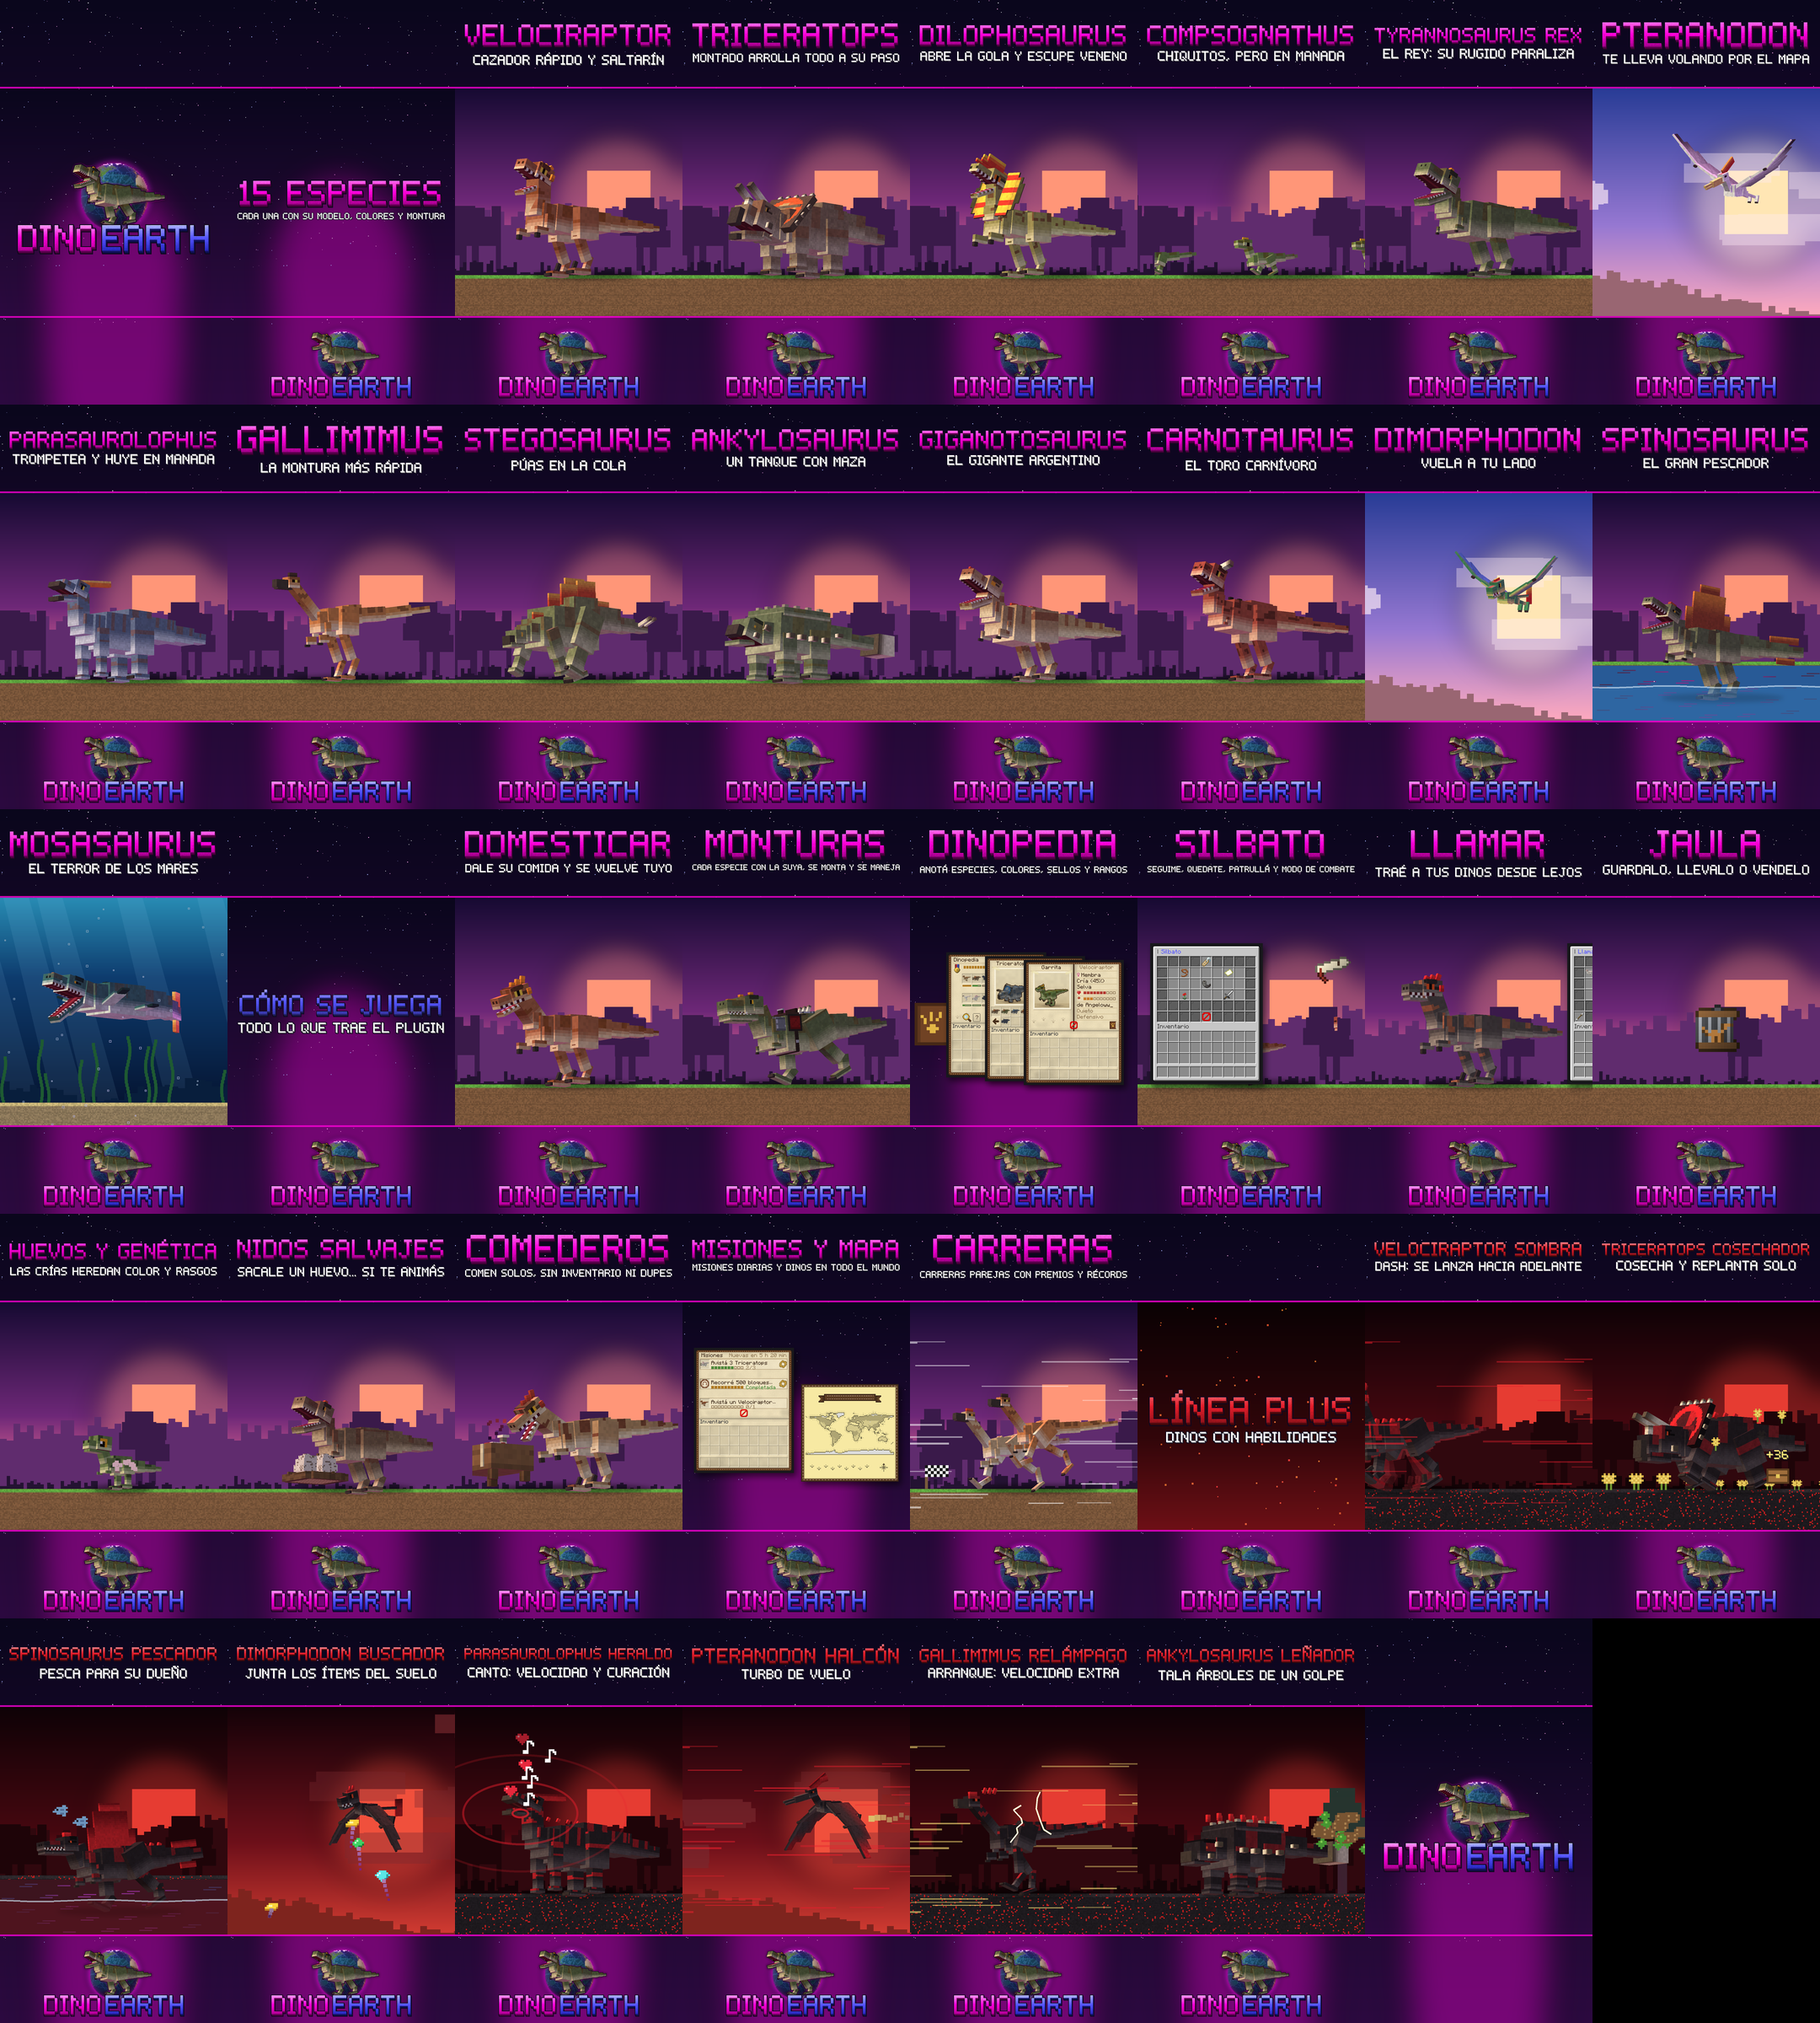
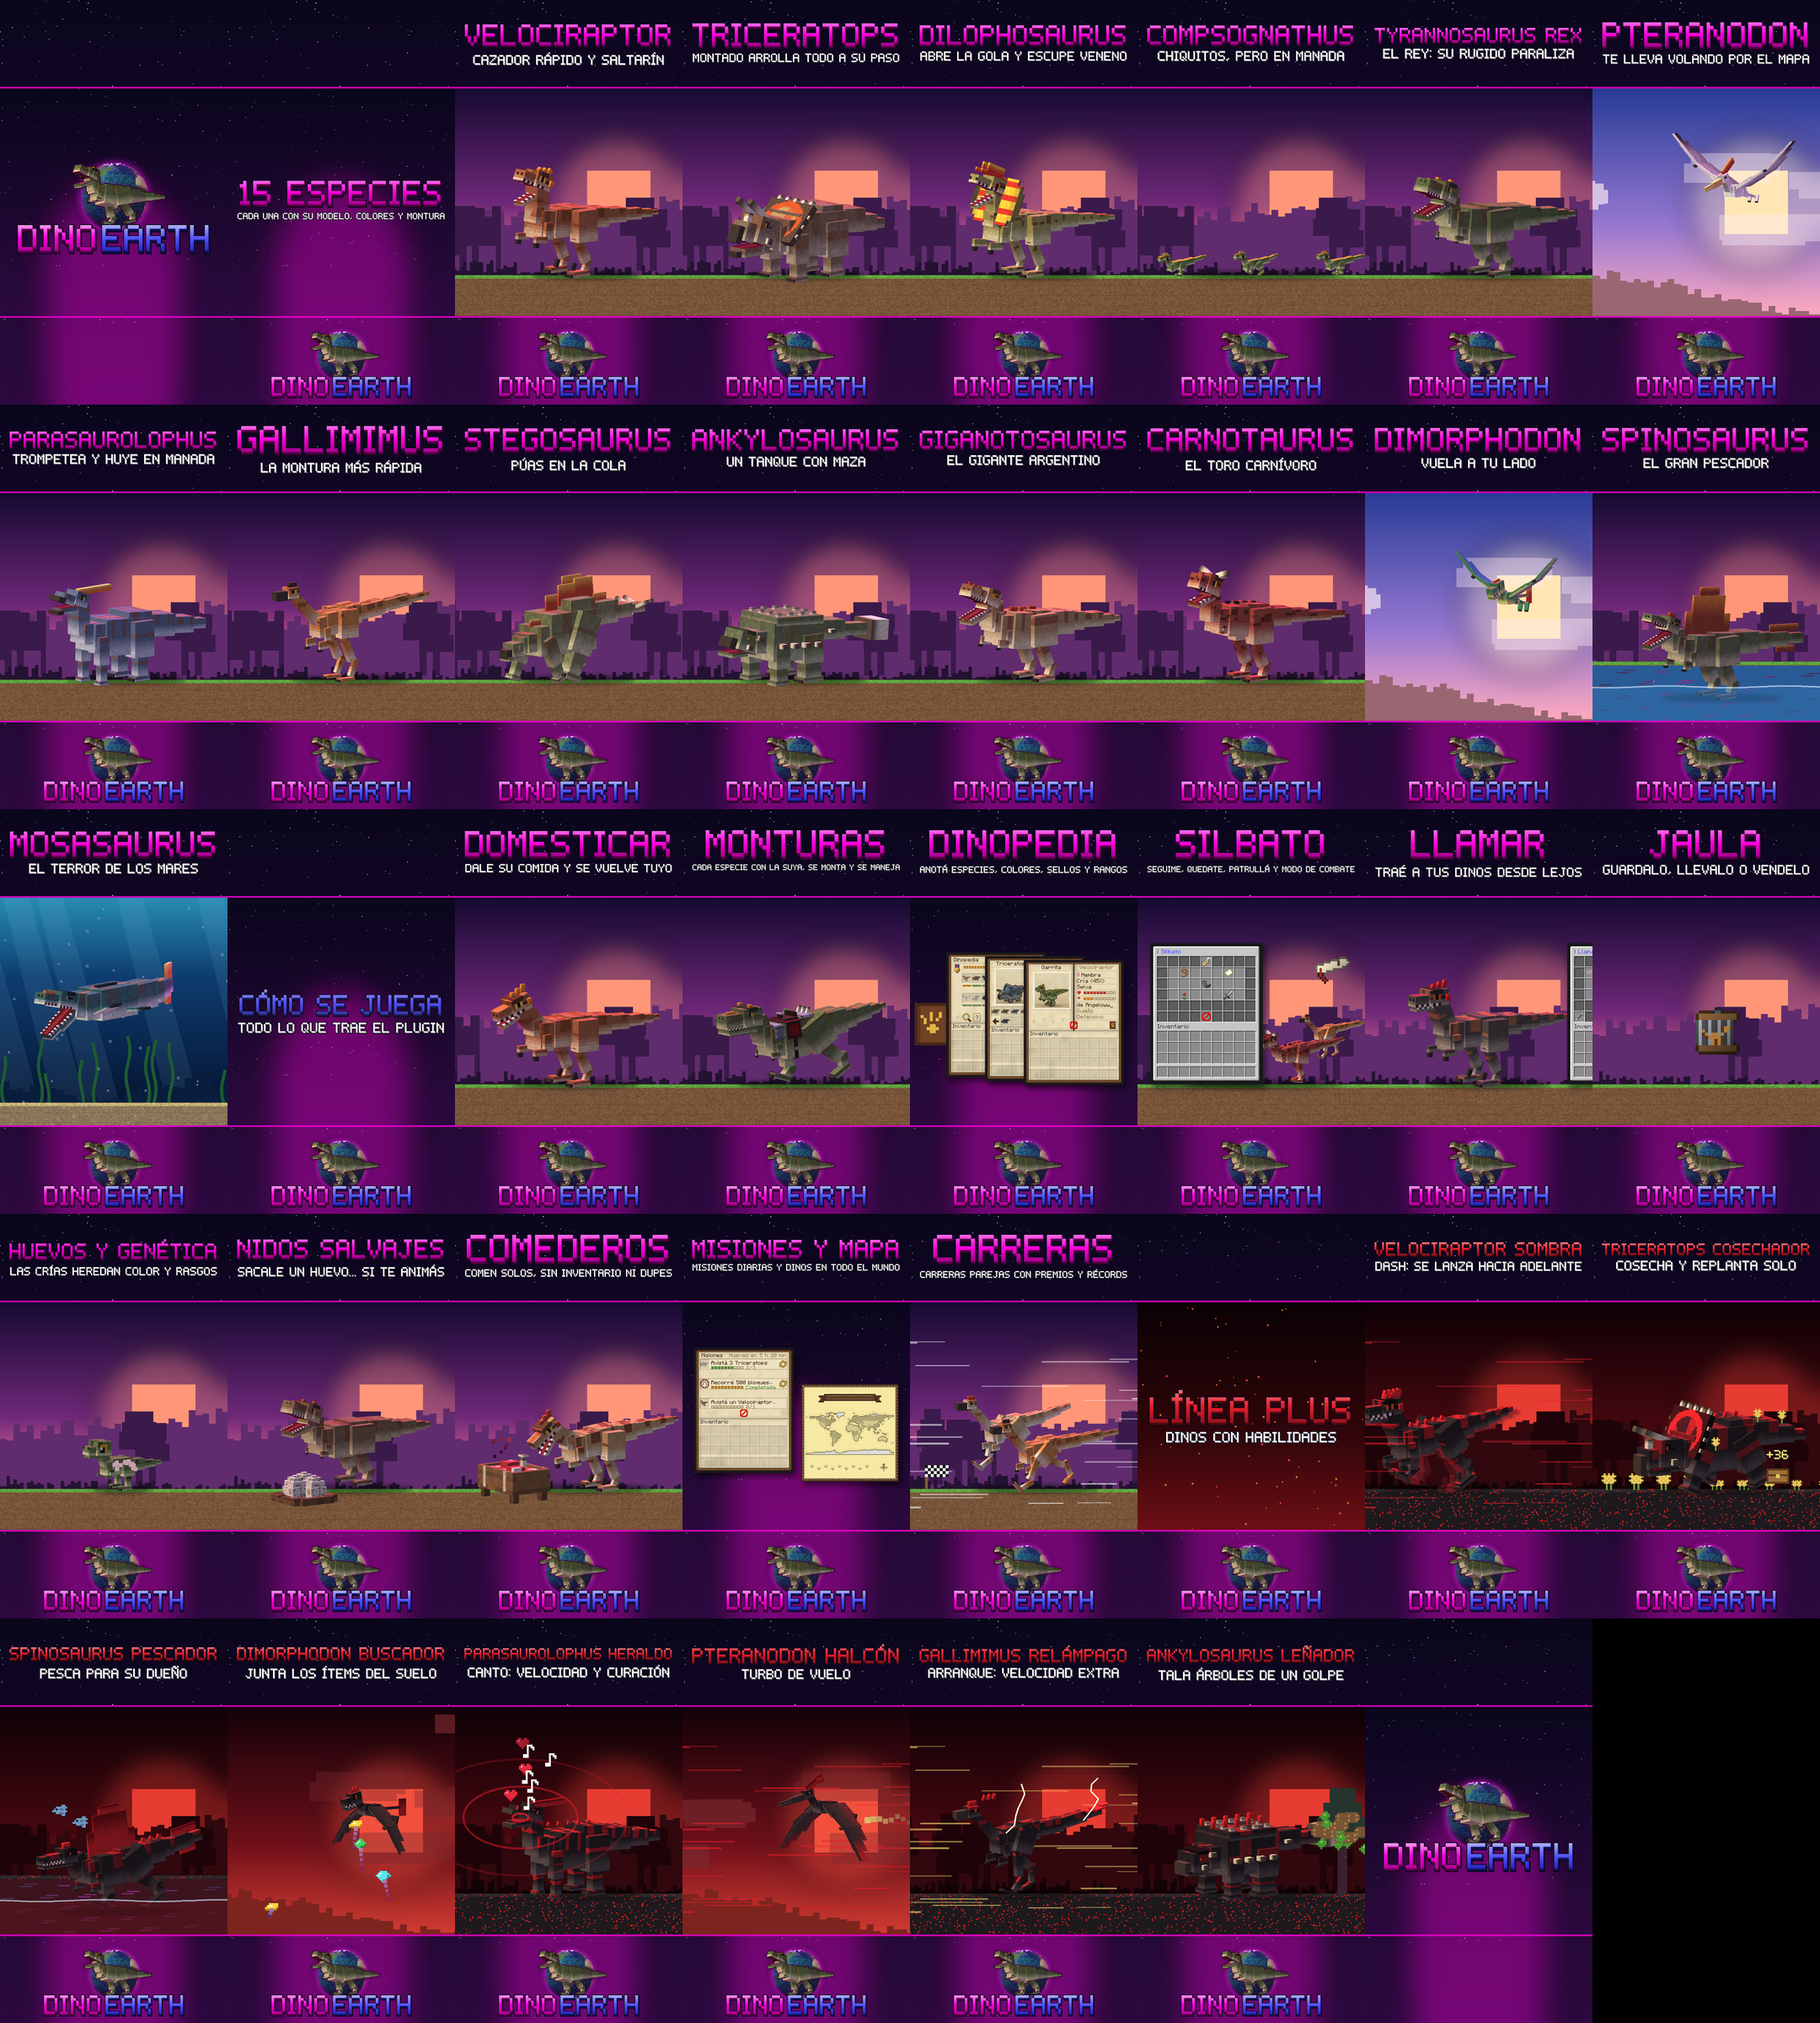
Trailer: camara un poco por arriba (no desde abajo) y encuadre automatico que mide cada escena para que nada se corte
Claude-Session: https://claude.ai/code/session_01FRzffRsnnW2LPvvNNanmUU

diff --git a/generator/video.py b/generator/video.py
@@ -550,17 +550,37 @@ class DinoScene(Scene):
         self.ppx = min(target / (self.length * 0.9 + 8), H * 0.54 / (self.height + 4))
         if kind == "swim":
             self.ppx = min(target / (self.length * 0.85), H * 0.5 / (self.height + 4))
-        self.canvas = (int(W * 0.95), int(H * 0.95))
-        self.origin_row = int(self.canvas[1] * (0.5 if kind in ("flyer", "swim") else 0.86))
         self.screen_origin = (W * (0.62 if kind == "flyer" else 0.55),
                               GROUND + (int(H * 0.08) if env == "river" else 0)
                               if kind not in ("flyer", "swim") else H * (0.6 if kind == "flyer" else 0.55))
+        self.fit()
+
+    def fit(self):
+        """Encuadre: lienzo grande (nada se corta al renderizar), y se mide la silueta en varios momentos de la
+        escena; si en algun momento no entra en el cuadro (por ancho o por alto, debajo de los titulos), se achica.
+        Despues se centra a lo ancho."""
+        cw, ch = int(W * 1.8), int(H * 1.5)
+        self.canvas = (cw, ch)
+        self.origin_row = int(ch * (0.5 if self.kind in ("flyer", "swim") else 0.8))
         self.xfix = 0
-        img = self.layer(0.0)
-        bb = img.getbbox()
-        if bb:
-            center = (bb[0] + bb[2]) / 2
-            self.xfix = self.canvas[0] / 2 - center
+        box = None
+        for f in (0.0, 0.2, 0.4, 0.55, 0.7, 0.85, 0.97):
+            bb = self.layer(self.dur * f).getbbox()
+            if bb:
+                box = bb if box is None else (min(box[0], bb[0]), min(box[1], bb[1]), max(box[2], bb[2]),
+                                              max(box[3], bb[3]))
+        if not box:
+            return
+        cx0, cy0 = cw / 2, self.origin_row
+        k_w = W * 0.94 / max(1, box[2] - box[0])
+        if self.kind in ("flyer", "swim"):
+            k_h = H * 0.6 / max(1, box[3] - box[1])
+        else:
+            room = self.screen_origin[1] - H * 0.2           # del suelo hasta debajo de los titulos
+            k_h = room / max(1, cy0 - box[1])
+        k = min(1.0, k_w, k_h)
+        self.ppx *= k
+        self.xfix = -(((box[0] + box[2]) / 2 - cx0) * k)
 
     # ---------------- pose y movimiento en el tiempo
     def walk_amount(self, lt):
@@ -622,7 +642,8 @@ class DinoScene(Scene):
         return self.yaws[0] + (self.yaws[1] - self.yaws[0]) * ease(u)
 
     def layer(self, lt):
-        return dino_layer(self.instances(lt), self.yaw(lt), -6 if self.kind not in ("flyer",) else 4, self.ppx,
+        # camara un poco por arriba (como se ve en el juego): de abajo los nidos y los dinos de atras quedaban raros
+        return dino_layer(self.instances(lt), self.yaw(lt), 10 if self.kind not in ("flyer",) else 6, self.ppx,
                           self.canvas, self.origin_row, rim=RED if self.plus else PINK)
 
     def travel(self, lt):
@@ -1011,10 +1032,7 @@ class FeatureScene(DinoScene):
             self.ppx *= 0.9
         if feature == "race":
             self.ppx *= 0.8
-        self.xfix = 0
-        bb = self.layer(2.5 if feature in ("recall", "egg") else 0.0).getbbox()
-        if bb:
-            self.xfix = self.canvas[0] / 2 - (bb[0] + bb[2]) / 2
+        self.fit()
 
     def walk_amount(self, lt):
         f = self.feature
